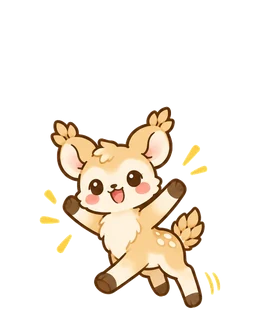
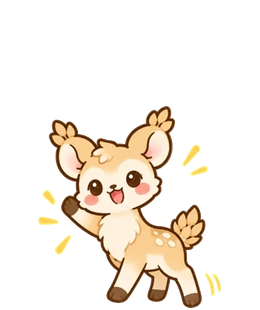
すなまる・こむぎ・ほたるび・ゆらり の 絵 9まい を 手あし の 数 を 直した 絵 に 差し替え

diff --git a/index.html b/index.html
@@ -5,10 +5,10 @@
 <link rel="icon" type="image/png" sizes="64x64" href="favicon.png?v=3">
 <link rel="apple-touch-icon" href="apple-touch-icon.png?v=3">
 <link rel="manifest" href="manifest.json">
-<script src="stickers/stickers.js?v=202610280824"></script>
-<script src="nakama/nakama.js?v=202610280824"></script>
-<script src="clock/clock.js?v=202610280824"></script>
-<script src="drill/patterns.js?v=202610280824"></script>
+<script src="stickers/stickers.js?v=202610280825"></script>
+<script src="nakama/nakama.js?v=202610280825"></script>
+<script src="clock/clock.js?v=202610280825"></script>
+<script src="drill/patterns.js?v=202610280825"></script>
 <meta name="apple-mobile-web-app-title" content="けいさん">
 <link rel="preconnect" href="https://fonts.googleapis.com">
 <link rel="preconnect" href="https://fonts.gstatic.com" crossorigin>
@@ -3466,7 +3466,7 @@ body.course .levels.nrange .lv{padding:3px 2px;font-size:12px}
   const nkSp = id => NK_LIST.find(x=>x.id===id) || NK_LIST[0];
   // ちいさい だんかいは すこし おおきく みせる（そだって いる かんじは のこす）
   const NK_SCALE = [1.9, 1.5, 1.15, 1, 1, 1];
-  const NK_IMG_VER = "10";   // なかまの え を さしかえたら ばんごうを あげる（ふるい え が のこらない ように）
+  const NK_IMG_VER = "11";   // なかまの え を さしかえたら ばんごうを あげる（ふるい え が のこらない ように）
   const nkImgSrc = (id, stage, mood) => `nakama/${id}/${NK_STAGES[stage]}_${stage===0 && mood==="s" ? "n" : mood}.webp?v=${NK_IMG_VER}`;
   const dkDate = k => { const [y,m,d]=k.split("-").map(Number); return new Date(y, m-1, d); };
   const dkAdd = (k, n) => { const d=dkDate(k); d.setDate(d.getDate()+n); return dayKey(d); };

diff --git a/CHANGELOG.md b/CHANGELOG.md
@@ -12,6 +12,9 @@
 ## 2026-10-28
 
 ### 修正（なかま）
+- **20:04** すなまる（おとな・よろこび）、こむぎ（こども・ひる）、ほたるび（こども・あさ／ひる、おとな・ひる）、ゆらり（おとしより・あさ／しょんぼり、おとな・ひる）の絵で、手やあしの数がおかしかったのを直しました。
+
+### 修正（なかま）
 - **18:56** ゆらり（おとしより・ひる）にも、ほかの段階と同じように うでを つけました。
 
 ### 修正（なかま）
